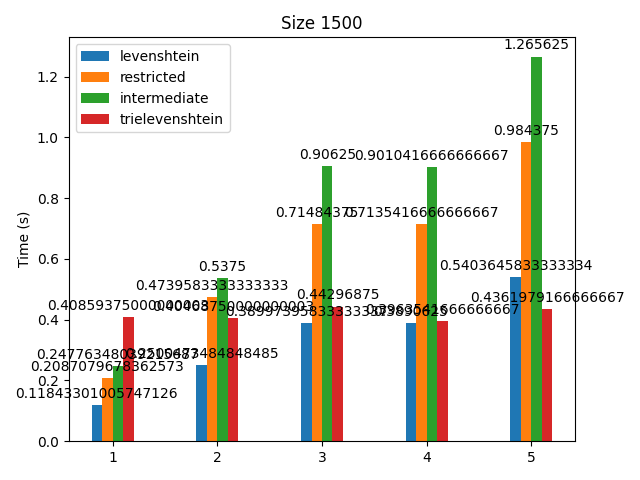
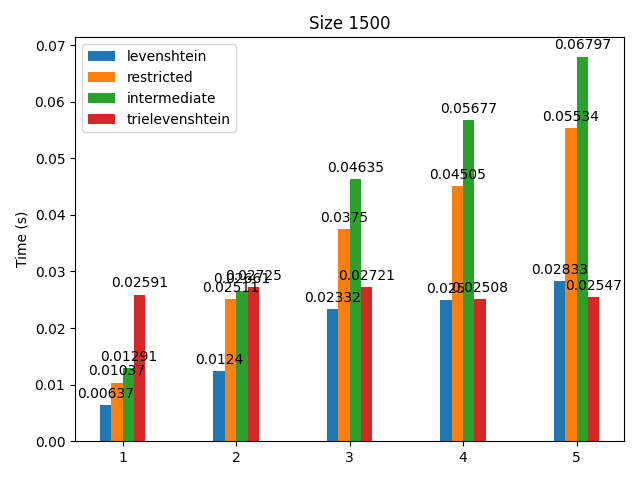
Update time

diff --git a/distances/spellsuggest_time.py b/distances/spellsuggest_time.py
@@ -4,6 +4,7 @@ import collections
 import threshold_distances as thres_distan
 import trie_distances as trie_distan
 from utils.trie import Trie
+from utils.tables import create_csv
 import sys
 import time
 import random
@@ -54,7 +55,10 @@ class TimeSpellSuggester:
             sorted_reversed = sorted(reversed_c, reverse=True)
             sorted_vocab = [word for (freq,word) in sorted_reversed]
         
-        self.vocabulary = sorted_vocab[0:size]
+        print('Talla real de vocabulario: '+ str(len(sorted_vocab)))
+        if size < len(sorted_vocab) : self.vocab_size = size
+        else : self.vocab_size = len(sorted_vocab)
+        self.vocabulary = sorted_vocab[0:self.vocab_size-1]
         self.trie = Trie(sorted(self.vocabulary))
 
     def count_distance(self, word1, word2) :
@@ -135,10 +139,10 @@ if __name__ == "__main__":
             print('\nFaltan argumentos, deben ser 3:\
                 \n\t1- path del fichero a analizar\
                 \n\t2- lista de thresholds ( [1,2,3,4,...] ) \
-                \n\t3- lista de tallas ( [...,500,1000,1500,...] ) \
+                \n\t3- lista de tallas ( [...,10000,20000,30000,...] ) \
                 (levenshtein, restricted, intermediate, trielevenshtein)\
                 \n\nPrueba con:\
-                \n\tpython spellsuggest_time.py ../corpora/quijote.txt [1,2,3,4,5] [100,500,1000,1500]\n')
+                \n\tpython spellsuggest_time.py ../corpora/quijote.txt [1,2,3,4,5] [10000,20000,30000]\n')
             exit()
 
         path = sys.argv[1]
@@ -156,32 +160,43 @@ if __name__ == "__main__":
             words = random.sample(time_spellsuggester.vocabulary, k = 10)
 
             # For a given vocabulary size and threshold, measure each function time
-            t_lev[s] = {}; t_res[s] = {}; t_int[s] = {}; t_trie[s] = {}
+            t_lev[str(time_spellsuggester.vocab_size)] = {} 
+            t_res[str(time_spellsuggester.vocab_size)] = {} 
+            t_int[str(time_spellsuggester.vocab_size)] = {}
+            t_trie[str(time_spellsuggester.vocab_size)] = {}
 
             for thres in thresholds :
-                t_lev[s][thres] = t_res[s][thres] = t_int[s][thres] = t_trie[s][thres] = 0
-                print( "\n### Threshold " + thres + ", size " + s + " ")
+                t_lev[str(time_spellsuggester.vocab_size)][thres] = 0
+                t_res[str(time_spellsuggester.vocab_size)][thres] = 0
+                t_int[str(time_spellsuggester.vocab_size)][thres] = 0
+                t_trie[str(time_spellsuggester.vocab_size)][thres] = 0
+                print( "\n### Threshold " + thres + ", size " + str(time_spellsuggester.vocab_size) + " ")
                 for w in words:
                     # Levenstein
-                    t_lev[s][thres] += measure_time(time_spellsuggester.suggest,
+                    t_lev[str(time_spellsuggester.vocab_size)][thres] += measure_time(time_spellsuggester.suggest,
                             [w, "levenshtein", int(thres)])[0]
                     # Restricted
-                    t_res[s][thres] += measure_time(time_spellsuggester.suggest,
+                    t_res[str(time_spellsuggester.vocab_size)][thres] += measure_time(time_spellsuggester.suggest,
                             [w, "restricted", int(thres)])[0]
                     # Intermediate
-                    t_int[s][thres] += measure_time(time_spellsuggester.suggest,
+                    t_int[str(time_spellsuggester.vocab_size)][thres] += measure_time(time_spellsuggester.suggest,
                             [w, "intermediate", int(thres)])[0]
                     # Trielevenshtein
-                    t_trie[s][thres] += measure_time(time_spellsuggester.suggest, 
+                    t_trie[str(time_spellsuggester.vocab_size)][thres] += measure_time(time_spellsuggester.suggest, 
                             [w, "trielevenshtein", int(thres)])[0]
-
-                print("* levenstein average: " +str(t_lev[s][thres]/len(words)) + "\n"
-                        "* restricted average: " + str(t_res[s][thres]/len(words)) + "\n"
-                        "* intermediate average: "  + str(t_int[s][thres]/len(words)) + "\n"
-                        "* trielevenshtein average: "  + str(t_trie[s][thres]/len(words)) + "\n")
+                # Time average is calculated
+                t_lev[str(time_spellsuggester.vocab_size)][thres] = round(t_lev[str(time_spellsuggester.vocab_size)][thres]/len(words),5)
+                t_res[str(time_spellsuggester.vocab_size)][thres] = round(t_res[str(time_spellsuggester.vocab_size)][thres]/len(words),5)
+                t_int[str(time_spellsuggester.vocab_size)][thres] = round(t_int[str(time_spellsuggester.vocab_size)][thres]/len(words),5)
+                t_trie[str(time_spellsuggester.vocab_size)][thres] = round(t_trie[str(time_spellsuggester.vocab_size)][thres]/len(words),5)
+                print("* levenstein average: " + str(t_lev[str(time_spellsuggester.vocab_size)][thres]) + "\n"
+                        "* restricted average: " + str(t_res[str(time_spellsuggester.vocab_size)][thres]) + "\n"
+                        "* intermediate average: "  + str(t_int[str(time_spellsuggester.vocab_size)][thres]) + "\n"
+                        "* trielevenshtein average: "  + str(t_trie[str(time_spellsuggester.vocab_size)][thres]) + "\n")
                 
             from utils.graphing import show_bar_graphing
-            show_bar_graphing(s, thresholds, t_lev, t_res, t_int, t_trie)
+            show_bar_graphing(str(time_spellsuggester.vocab_size), thresholds, t_lev, t_res, t_int, t_trie)
+            create_csv(str(time_spellsuggester.vocab_size), thresholds, t_lev, t_res, t_int, t_trie)
 
     except Exception as err:
         print("\n spellsuggest class error :",sys.exc_info[0])

diff --git a/distances/utils/tables.py b/distances/utils/tables.py
@@ -1,0 +1,30 @@
+import numpy as np
+import csv
+
+def create_csv(s, thresholds, t_lev, t_res, t_int, t_trie) :
+    # sizes = ['100', '500', '1000', '1500', '2000']
+    time_leven = []; time_int = []
+    time_rest = []; time_trie = []
+        
+    for thres in thresholds :
+        time_leven.append(t_lev[s][thres])
+        time_rest.append(t_res[s][thres])
+        time_int.append(t_int[s][thres])
+        time_trie.append(t_trie[s][thres])
+    
+    with open('data/table'+str(s)+'.csv', 'w', newline='') as csvfile:
+        writer = csv.writer(csvfile, delimiter=';',
+                                quotechar='|', quoting=csv.QUOTE_MINIMAL)
+        writer.writerow(['Thresholds'] + thresholds)
+        writer.writerow(['levenshtein'] + time_leven)
+        writer.writerow(['intermediate'] + time_int)
+        writer.writerow(['restricted'] + time_rest)
+        writer.writerow(['trielevenshtein'] + time_trie)
+
+
+if __name__=='__main__' :
+    create_csv('100', ['1','2'], 
+        {'100':{'1':0.2,'2':0.3},'150':{'1':0.2,'2':0.3}}, 
+        {'100':{'1':0.2,'2':0.3},'150':{'1':0.2,'2':0.3}}, 
+        {'100':{'1':0.2,'2':0.3},'150':{'1':0.2,'2':0.3}}, 
+        {'100':{'1':0.2,'2':0.3},'150':{'1':0.2,'2':0.3}})

diff --git a/distances/utils/graphing.py b/distances/utils/graphing.py
@@ -54,10 +54,11 @@ def show_bar_graphing(s, thresholds, t_lev, t_res, t_int, t_trie) :
     # plt.show()
     
 
-
+"""
 if __name__=='__main__' :
     show_bar_graphing('100', ['1','2'], 
         {'100':{'1':0.2,'2':0.3},'150':{'1':0.2,'2':0.3}}, 
         {'100':{'1':0.2,'2':0.3},'150':{'1':0.2,'2':0.3}}, 
         {'100':{'1':0.2,'2':0.3},'150':{'1':0.2,'2':0.3}}, 
         {'100':{'1':0.2,'2':0.3},'150':{'1':0.2,'2':0.3}})
+"""
